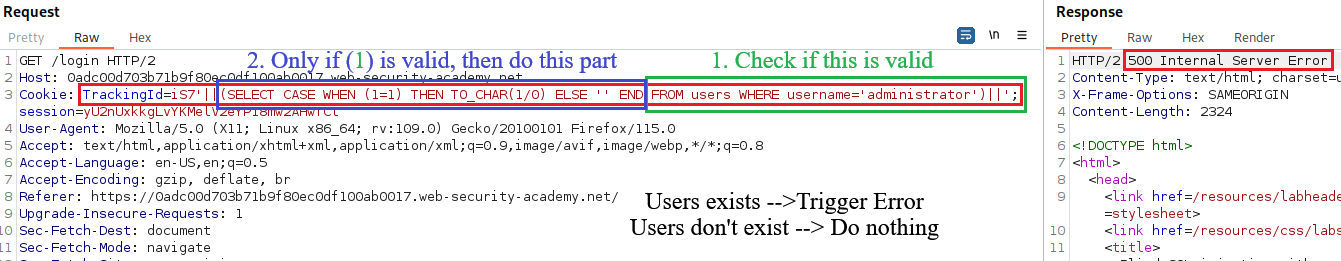
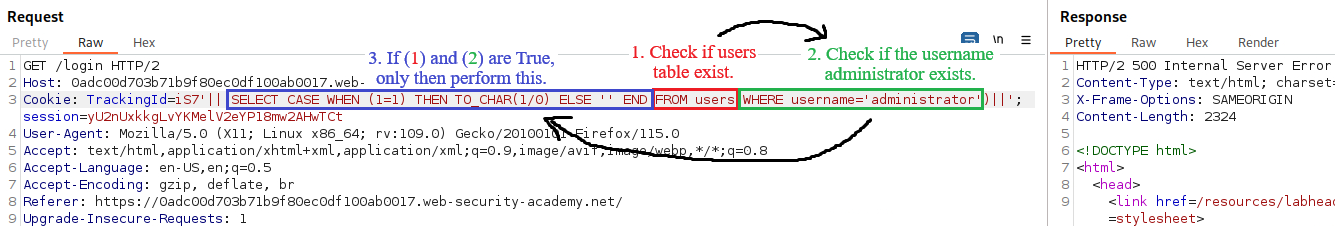
updated

diff --git a/_posts/2023-12-22-PS SQLi - 4. Error-based SQLi.md b/_posts/2023-12-22-PS SQLi - 4. Error-based SQLi.md
@@ -11,7 +11,7 @@ published: true
 
 **Error-based SQLi** refers to cases where we are able to use error messages to either extract or infer sensitive data from the database, even in blind contexts. The possibilities depend on the database configuration and the error types we are able to trigger:
 - We may be able to induce the app to return a specific error response based on the result of a boolean expression. We can exploit this in the same way as the [condition responses](https://cspanias.github.io/posts/PS-SQLi-3.-Blind-SQLi/#exploiting-blind-sqli-by-triggering-conditional-responses).
-- We may be able to trigger error messages that output the data returned by the query. This effectively turns otherwise blind SQLi vulnerabilities into visible ones ([extracting sensitive data via verbose SQL error messages](https://portswigger.net/web-security/sql-injection/blind#extracting-sensitive-data-via-verbose-sql-error-messages)).
+- We may be able to trigger error messages that output the data returned by the query. This effectively turns the otherwise blind SQLi vulnerabilities into visible ones ([extracting sensitive data via verbose SQL error messages](https://portswigger.net/web-security/sql-injection/blind#extracting-sensitive-data-via-verbose-sql-error-messages)).
 
 ## Exploiting blind SQLi by triggering conditional errors
 
@@ -49,6 +49,12 @@ xyz' AND (SELECT CASE WHEN (Username = 'Administrator' AND SUBSTRING(Password, 1
 
     ![](lab1_error_type.png)
 
+    ```sql
+    -- translation of the above query
+    WHERE TrackingId == 'xxxxx'||(SELECT '')||''
+    -- result: 'xxxxx  ' (followed by 2 spaces)
+    ```
+
     ![](lab1_error_type1.png)
 
 3. The queries above indicate that the sever is indeed interpreting the injection as a SQL query, and that we are dealing with an Oracle database which requires all `SELECT` statements to explicitly specify a table name. We can confirm the database type as follows:
@@ -58,6 +64,8 @@ xyz' AND (SELECT CASE WHEN (Username = 'Administrator' AND SUBSTRING(Password, 1
 4. Now we now the database type, we can pass an invalid query while preserving valid SQL syntax to be sure that our injection is being processed as a SQL query by the server:
 
     ![](lab1_error_type2.png)
+
+    > The `FROM test` part of the `SELECT '' FROM test` query is executed first, and because this table does not exist, it will return an error.
 
 5. As long as we inject syntactically valid SQL queries, we can use this error response to infer key info about the database. For example, in order to verify that the `users` table exists:
 
@@ -71,9 +79,13 @@ xyz' AND (SELECT CASE WHEN (Username = 'Administrator' AND SUBSTRING(Password, 1
 
     ![](lab1_where_test.png)
 
+    > The `FROM users` part of the `SELECT '' FROM users WHERE username='xxxx'` query is executed before the `WHERE username='xxxx` part, and because the `users` table exists it is a valid query that simply returns no data if the user does not exist, so it won't return any errors regardless of the user passed.
+
 6. What we need to do is to construct a query that includes an error-generating expression and make sure that it works as intended:
 
     ![](lab1_case.png)
+
+    > `1=1` evaluates to True, so it will then try to execute `1/0` which will return a "*division-by-0*" error.
 
     ![](lab1_case1.png)
 
@@ -93,9 +105,15 @@ xyz' AND (SELECT CASE WHEN (Username = 'Administrator' AND SUBSTRING(Password, 1
 
     ![](lab1_pass_length_8.png)
 
+    > The password length is bigger than 8 characters.
+
     ![](lab1_pass_length_20_plus.png)
 
+    > The password length is not bigger than 20 characters.
+
     ![](lab1_pass_length_20.png)
+
+    > The password length is exactly 20 characters.
 
 9. The password is 20 characters long, so we can now use Intruder to brute force its characters one-by-one:
 
@@ -115,7 +133,7 @@ xyz' AND (SELECT CASE WHEN (Username = 'Administrator' AND SUBSTRING(Password, 1
 
 ### Burp-Intruder alternative (Python3)
 
-We can create our own brute-forcing script using Python3 that works in exactly the same way as the Intruder: trying all lowercase alphanumeric characters and numbers for each of the twenty positions of the password and keeps the correct one based on a `500` response.
+We can create our own brute-forcing script using Python3 that works in exactly the same way (with the exception that we have now modified our payload to include only lowercase alphanumeric characters) as the Intruder : it will try all lowercase alphanumeric characters for each of the twenty positions of the password and will keep the correct one based on a `500` HTTP status code response.
 
 This script is a modification of Rana's [code](https://github.com/rkhal101/Web-Security-Academy-Series/blob/main/sql-injection/lab-12/sqli-lab-12.py). The major modifications are the **automation of cookie grabbing** and the **addition of comments throughout the code**, among other minor changes, which are highlighted at the top of the script:
 
@@ -221,6 +239,10 @@ if __name__ == "__main__":
 ```
 
 > GitHub repo: [lab12_blindSqliWithConditionalgErrors.py](https://github.com/CSpanias/cspanias.github.io/blob/main/assets/portswigger/sqli/error_based_sqli/lab12_blindSqliWithConditionalgErrors.py)
+
+We can run the script and supply it with the page's URL and get the `administrator`'s password:
+
+    ![](lab1_python_results.png)
 
 ## Extracting sensitive data via verbose SQL error messages
 
